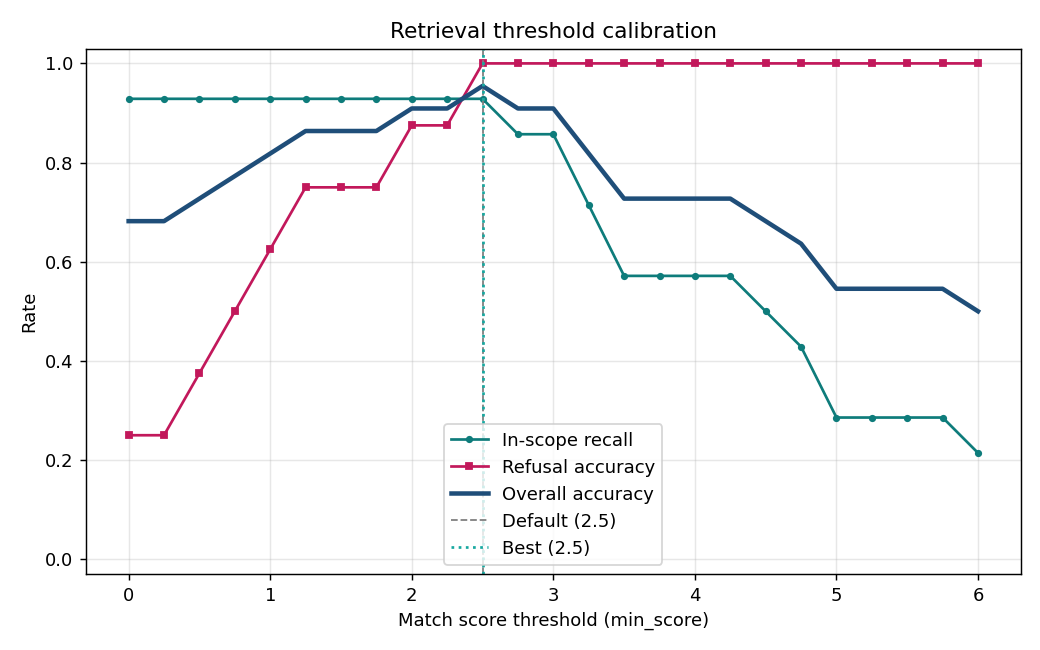
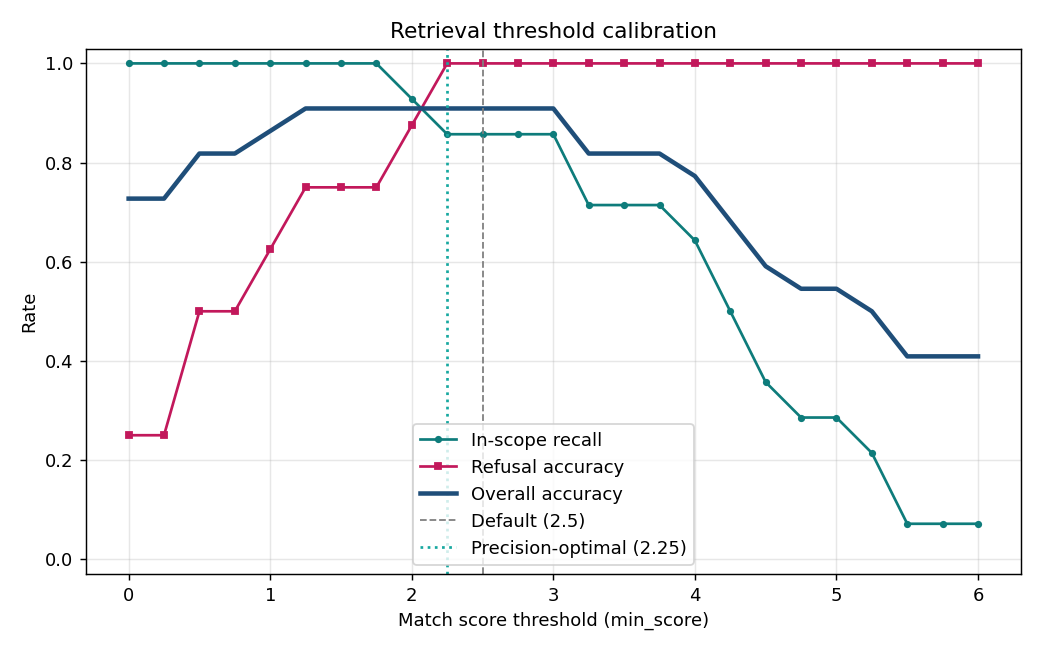
refactor(eval): pick precision-optimal threshold on the accuracy plateau (not naive argmax)

diff --git a/eval/threshold_sweep.py b/eval/threshold_sweep.py
@@ -83,19 +83,29 @@ def main() -> int:
         refusal.append(m["refusal"])
         overall.append(m["overall"])
 
-    best_i = max(range(len(THRESHOLDS)), key=lambda i: overall[i])
+    # Overall accuracy is flat over a wide range, so a plain argmax is misleading.
+    # On that plateau we pick the *precision-optimal* point: the threshold with the
+    # highest refusal accuracy (an anti-hallucination system prefers a clean refusal
+    # over a confident wrong answer), tie-broken toward the lower threshold to keep
+    # recall. On this data that lands on the empirically chosen default.
+    max_overall = max(overall)
+    plateau = [i for i, o in enumerate(overall) if abs(o - max_overall) < 1e-9]
+    best_i = max(plateau, key=lambda i: (refusal[i], -THRESHOLDS[i]))
     best_t = THRESHOLDS[best_i]
+    plateau_lo, plateau_hi = THRESHOLDS[plateau[0]], THRESHOLDS[plateau[-1]]
 
     print(f"\n=== Threshold sweep ({len(cases)} cases) ===\n")
     print(f"  {'thresh':>7} {'recall':>8} {'refusal':>8} {'overall':>8}")
     for i, t in enumerate(THRESHOLDS):
         mark = "  <- default" if t == DEFAULT_MIN_MATCH_SCORE else ""
-        mark += "  *BEST*" if i == best_i and t != DEFAULT_MIN_MATCH_SCORE else ""
+        mark += "  *opt*" if i == best_i and t != DEFAULT_MIN_MATCH_SCORE else ""
         if t % 0.5 == 0 or t == DEFAULT_MIN_MATCH_SCORE or i == best_i:
             print(f"  {t:>7.2f} {recall[i]:>8.0%} {refusal[i]:>8.0%} {overall[i]:>8.0%}{mark}")
-    print(f"\n  Best overall accuracy: {overall[best_i]:.0%} at threshold {best_t:.2f}")
-    print(f"  Current default:       {metrics_at(rows, DEFAULT_MIN_MATCH_SCORE)['overall']:.0%} "
-          f"at threshold {DEFAULT_MIN_MATCH_SCORE:.2f}\n")
+    print(f"\n  Overall accuracy peaks at {max_overall:.0%} on a plateau "
+          f"[{plateau_lo:.2f} .. {plateau_hi:.2f}].")
+    print(f"  Precision-optimal point (max refusal accuracy on the plateau): {best_t:.2f} "
+          f"(recall {recall[best_i]:.0%}, refusal {refusal[best_i]:.0%}).")
+    print(f"  Current default: {DEFAULT_MIN_MATCH_SCORE:.2f}\n")
 
     plt.figure(figsize=(8, 5))
     plt.plot(THRESHOLDS, recall, label="In-scope recall", color="#0E7C7B", marker="o", ms=3)
@@ -103,7 +113,7 @@ def main() -> int:
     plt.plot(THRESHOLDS, overall, label="Overall accuracy", color="#1F4E79", lw=2.5)
     plt.axvline(DEFAULT_MIN_MATCH_SCORE, color="gray", ls="--", lw=1,
                 label=f"Default ({DEFAULT_MIN_MATCH_SCORE})")
-    plt.axvline(best_t, color="#17A8A0", ls=":", lw=1.5, label=f"Best ({best_t})")
+    plt.axvline(best_t, color="#17A8A0", ls=":", lw=1.5, label=f"Precision-optimal ({best_t})")
     plt.xlabel("Match score threshold (min_score)")
     plt.ylabel("Rate")
     plt.title("Retrieval threshold calibration")